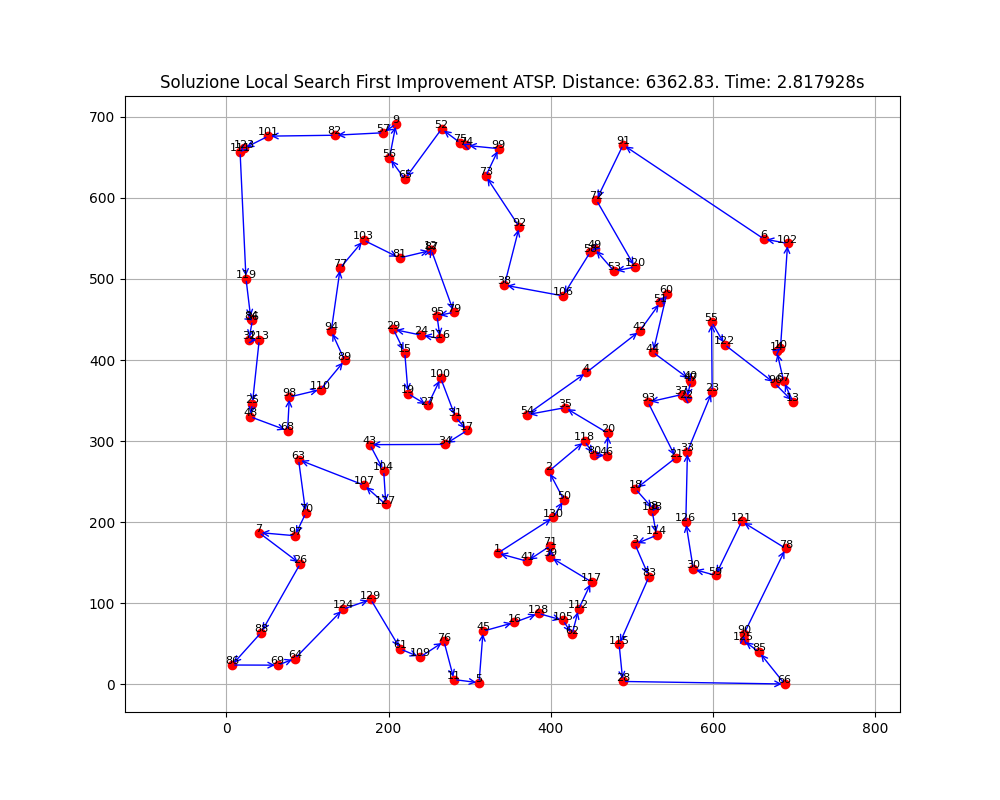
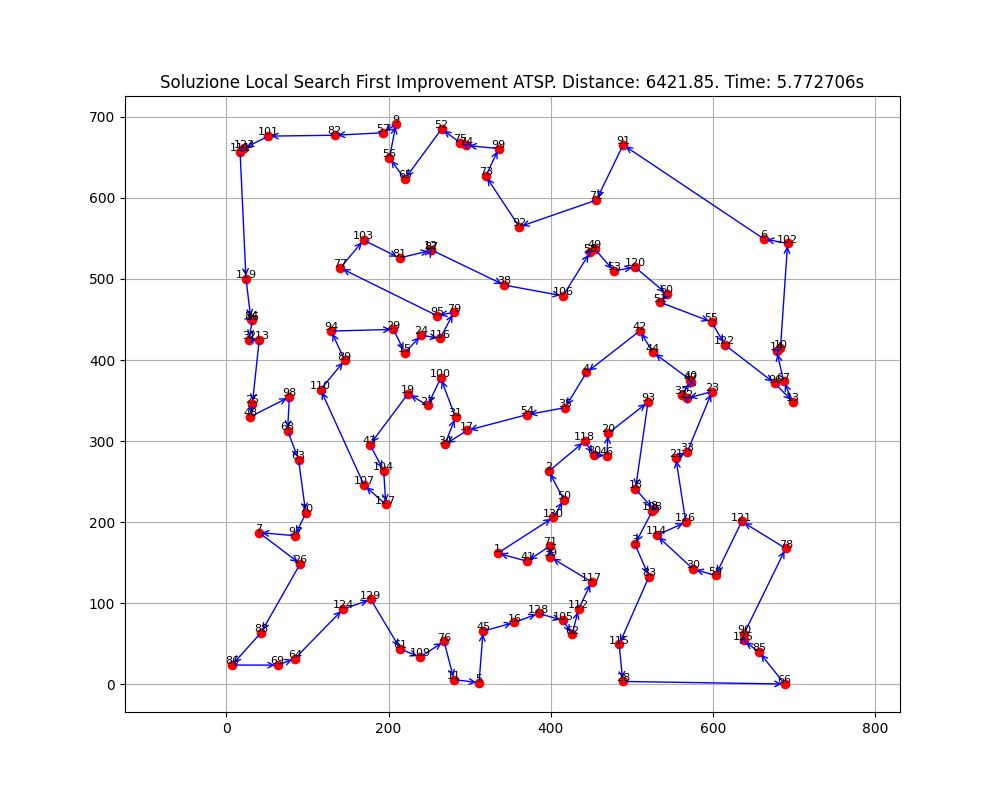
Modificata LS

diff --git a/localSearch.py b/localSearch.py
@@ -51,7 +51,8 @@ def localSearchFirstImprovement(tour: List, distances: Dict[Tuple[int,int], floa
             newTour = twoOptSwap(tour, i, k)
             if isAcceptable(tour, newTour, distances):
                 tour = newTour
-                moveSpace = generateTwoOptSpace(tour)
+                #moveSpace = generateTwoOptSpace(tour)
+                random.shuffle(moveSpace)
                 improvement_found = True
                 break
         if not improvement_found:
@@ -74,8 +75,9 @@ def localSearchBestImprovement(tour: List, distances: Dict[Tuple[int,int], float
                 improvement_found = True
         if not improvement_found:
             noImprovement = True
-        else: 
-            moveSpace = generateTwoOptSpace(tour)
+        #else: 
+            #moveSpace = generateTwoOptSpace(tour)
+            #random.shuffle(moveSpace)
 
     return tour
 
@@ -84,9 +86,10 @@ def isAcceptable(startTour: List[int], endTour: List[int],distances: Dict[Tuple[
 
 def generateTwoOptSpace(tour: List[int]) -> List[Tuple[int,int]]:
     n = len(tour)
+    # Combinazione di indici
     swaps = list(combinations(range(1,n-2), 2))
-    random.seed(42)
-    random.shuffle(swaps)
+    #random.seed(42)
+    #random.shuffle(swaps) va fatto nella funzione chiamante
     return swaps
 
 if __name__=="__main__":

diff --git a/SimulatedAnnealing.py b/SimulatedAnnealing.py
@@ -9,7 +9,7 @@ from itertools import combinations
 import itertools
 import json
 
-ISTANCE_NAME = "ch130"
+ISTANCE_NAME = "pcb442"
 
 def main():
     nodes = readNodes(f"{ISTANCE_NAME}/{ISTANCE_NAME}.tsp")
@@ -43,7 +43,7 @@ def main():
 
 
     # Iterazione con parametri ricercati attraverso RandomSearch
-    nTest = 1000
+    nTest = 200
 
     startTime = time.perf_counter()
     tour2 = randomSearchSimulatedAnnealing(tour, distances,tK,tF,nIter,nNoImprovement,alfa,nTest)

diff --git a/greedyNodesMatrix.py b/greedyNodesMatrix.py
@@ -8,7 +8,7 @@ import time
 import os
 import shutil
 
-PATH = "ch130.tsp"
+PATH = "pcb442.tsp"
 BEST = 0
 SOLUTION = "solution"
 DISTANCE = "distance"
